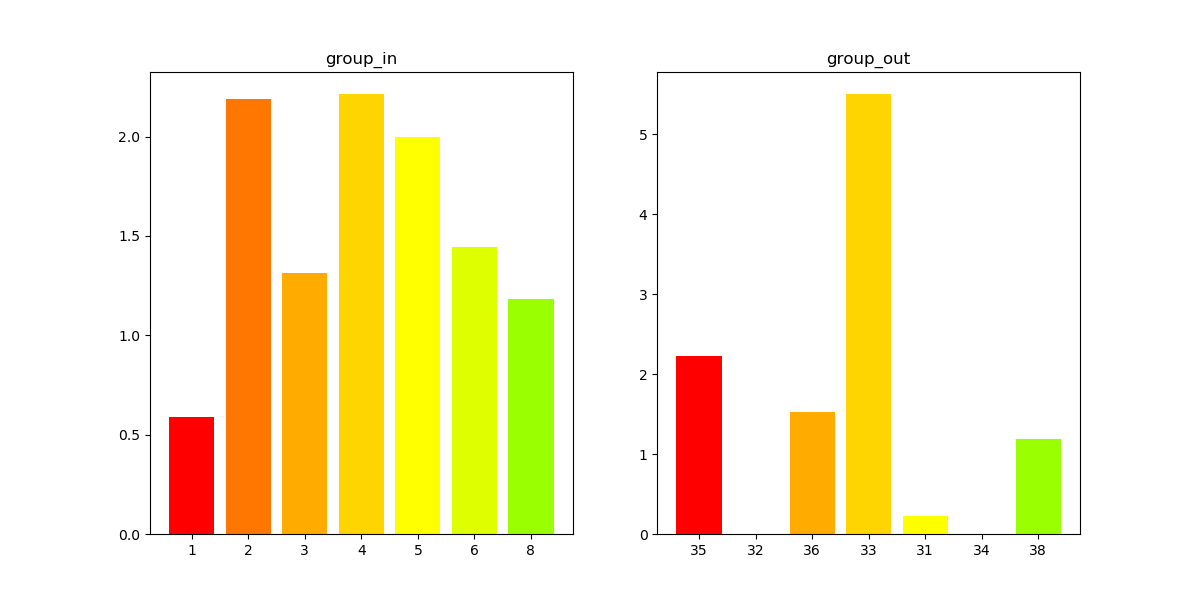
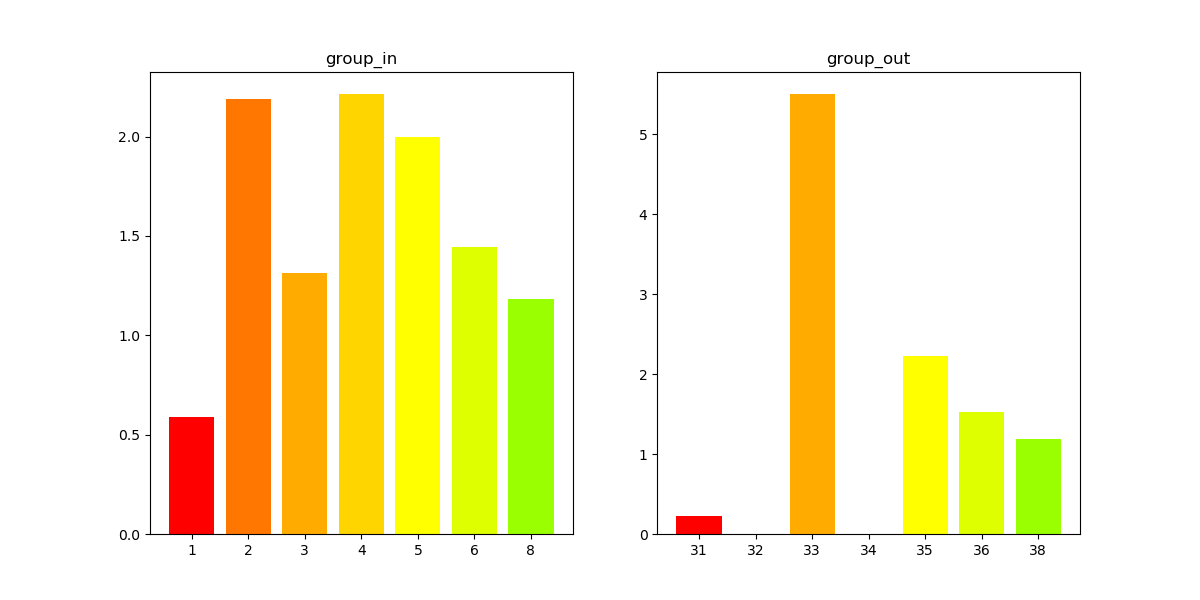
fix some bugs

Changed region(s): [[0.6475, 0.15, 0.8633, 0.9], [0.555, 0.57, 0.6167, 0.87]]

diff --git a/pd_lab/ep3.py b/pd_lab/ep3.py
@@ -1,4 +1,5 @@
 import pandas as pd
+import numpy as np
 import matplotlib.pyplot as plt
 
 ejudge = pd.read_html("results_ejudge.html")[0]
@@ -7,7 +8,7 @@ groups = pd.read_excel("students_info.xlsx")
 data = pd.merge(groups, ejudge, on='User')
 
 group_faculty = groups['group_faculty'].unique()
-group_out = groups['group_out'].unique()
+group_out = np.sort(groups['group_out'].unique())
 
 res_fac = [data[data['group_faculty'] == i]['Solved'].mean() for i in group_faculty]
 res_out = [data[data['group_out'] == i]['Solved'].mean() for i in group_out]

diff --git a/mpl_lab/frames.py b/mpl_lab/frames.py
@@ -1,13 +1,10 @@
 import matplotlib.pyplot as plt
 
-x = [[] for i in range(12)]
-i = 0
+x = []
 
 with open("data.dat", 'r') as file:
-    for line in file:
-        for num in line.split():
-            x[i].append(float(num))
-        i += 1
+    for i, line in enumerate(file):
+        x.append([float(num) for num in line.split()])
 
 for i in range(0, len(x), 2):
     fig, ax = plt.subplots()

diff --git a/mpl_lab/mpl_moroz.py b/mpl_lab/mpl_moroz.py
@@ -17,6 +17,8 @@ for i in range(number_of_datas):
                 pass
     axs[i].scatter(x[i], y[i], s=3)
 
-figure = plt.gcf()
-figure.set_size_inches(18, 6)
-plt.savefig("dead.png")
+# figure = plt.gcf()
+# figure.set_size_inches(18, 6)
+# plt.savefig("dead.png")
+
+plt.show()
